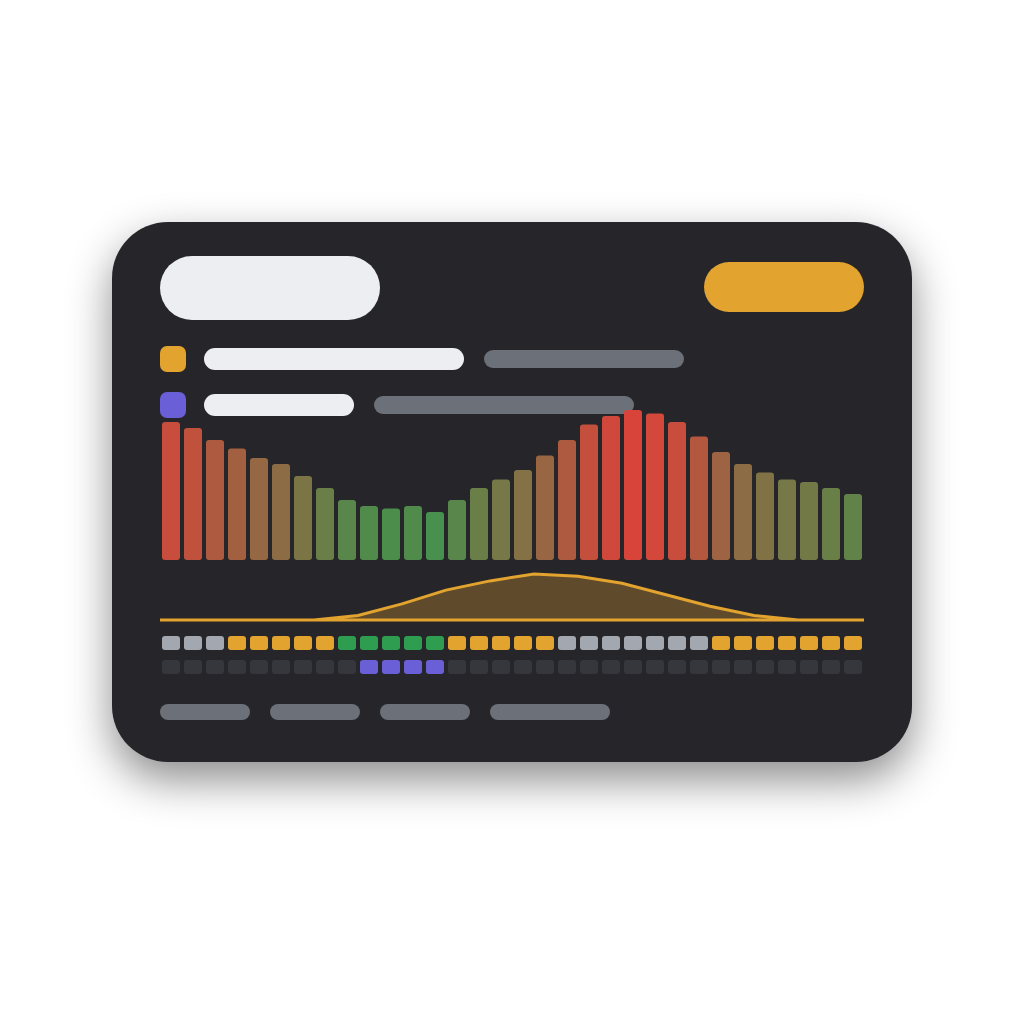
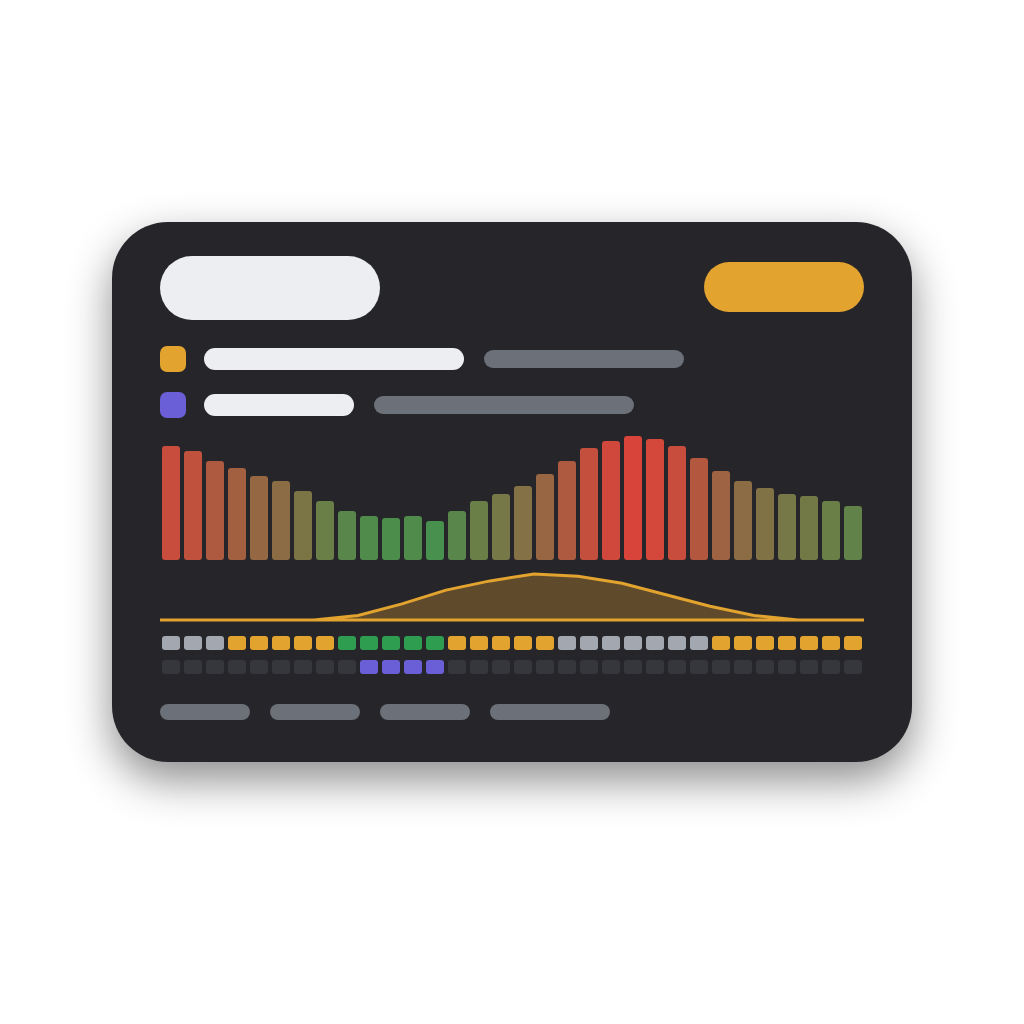
Widget previews: plan bars no longer overlap the text; forum guide lists the new widget names and the plan and house connection widgets

Changed region(s): [[0.4375, 0.4062, 0.8438, 0.5], [0.2812, 0.4688, 0.4375, 0.5312], [0.1562, 0.4062, 0.2812, 0.4688]]

diff --git a/scripts/make-widget-previews.js b/scripts/make-widget-previews.js
@@ -40,7 +40,7 @@ function planSvg(t) {
   const n = prices.length;
   const x0 = 160; const w = 704; const bw = w / n;
   const bars = prices.map((p, i) => {
-    const h = 30 + p * 120;
+    const h = 24 + p * 100;
     return `<rect x="${(x0 + i * bw + 2).toFixed(1)}" y="${(560 - h).toFixed(1)}" width="${(bw - 4).toFixed(1)}" height="${h.toFixed(1)}" rx="3" fill="${priceColor(p)}"/>`;
   }).join('');
   const pv = [0, 0, 0, 0, 0.1, 0.35, 0.65, 0.85, 1, 0.95, 0.8, 0.55, 0.3, 0.1, 0, 0];

diff --git a/docs/forum-settings-guide.en.md b/docs/forum-settings-guide.en.md
@@ -72,11 +72,13 @@ VAT (default 8.1 %, added to the API prices, which are excluding VAT) is set onc
 
 Add them from the Homey dashboard editor.
 
-- **Innostrom price:** current price, level, next price, rank, low/average/high, the cheapest 2-hour block and today's and tomorrow's curve with the reference line. The **Grid import** button overlays the kWh you bought from the grid.
-- **Innostrom price list:** 24 hours as a grid with day tabs, cheapest and most expensive block, tap an hour for its quarter-hours.
-- **Innostrom costs:** accumulated cost with the dynamic tariff against the reference tariff.
+- **Electricity price:** current price, level, next price, rank, low/average/high, the cheapest 2-hour block and today's and tomorrow's curve with the reference line. The **Grid import** button overlays the kWh you bought from the grid.
+- **Price list:** 24 hours as a grid with day tabs, cheapest and most expensive block, tap an hour for its quarter-hours.
+- **Electricity costs:** accumulated cost with the dynamic tariff against the reference tariff.
+- **Energy plan** (needs the energy management device): the next 24 hours of prices with the solar forecast, the planned battery mode (charge, hold, normal) and the car charging windows. Tap a bar for that quarter-hour. Shows "Test mode" while the energy management only simulates.
+- **House connection** (needs main fuse protection): the highest phase against the limit, total kW, L1 to L3 with bars, today's peak, and whether the wallbox is limited or a device was switched off.
 
-[SCREENSHOT: the three widgets on a dashboard]
+[SCREENSHOT: the widgets on a dashboard]
 
 ## 6. Cost comparison: how the numbers get in
 
